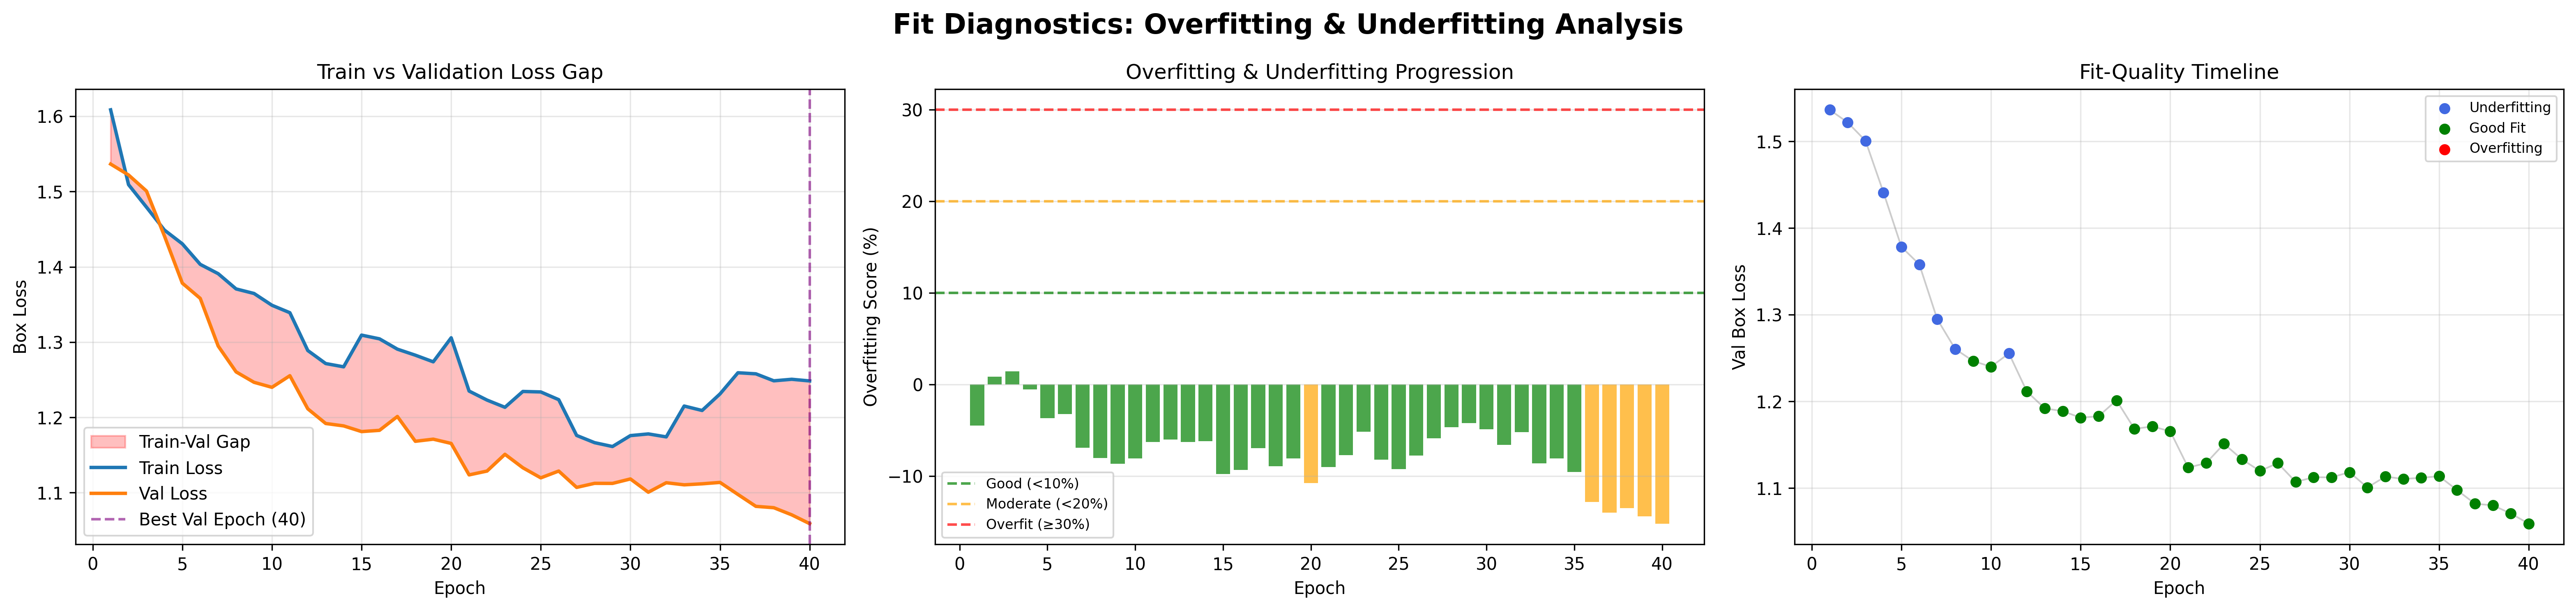
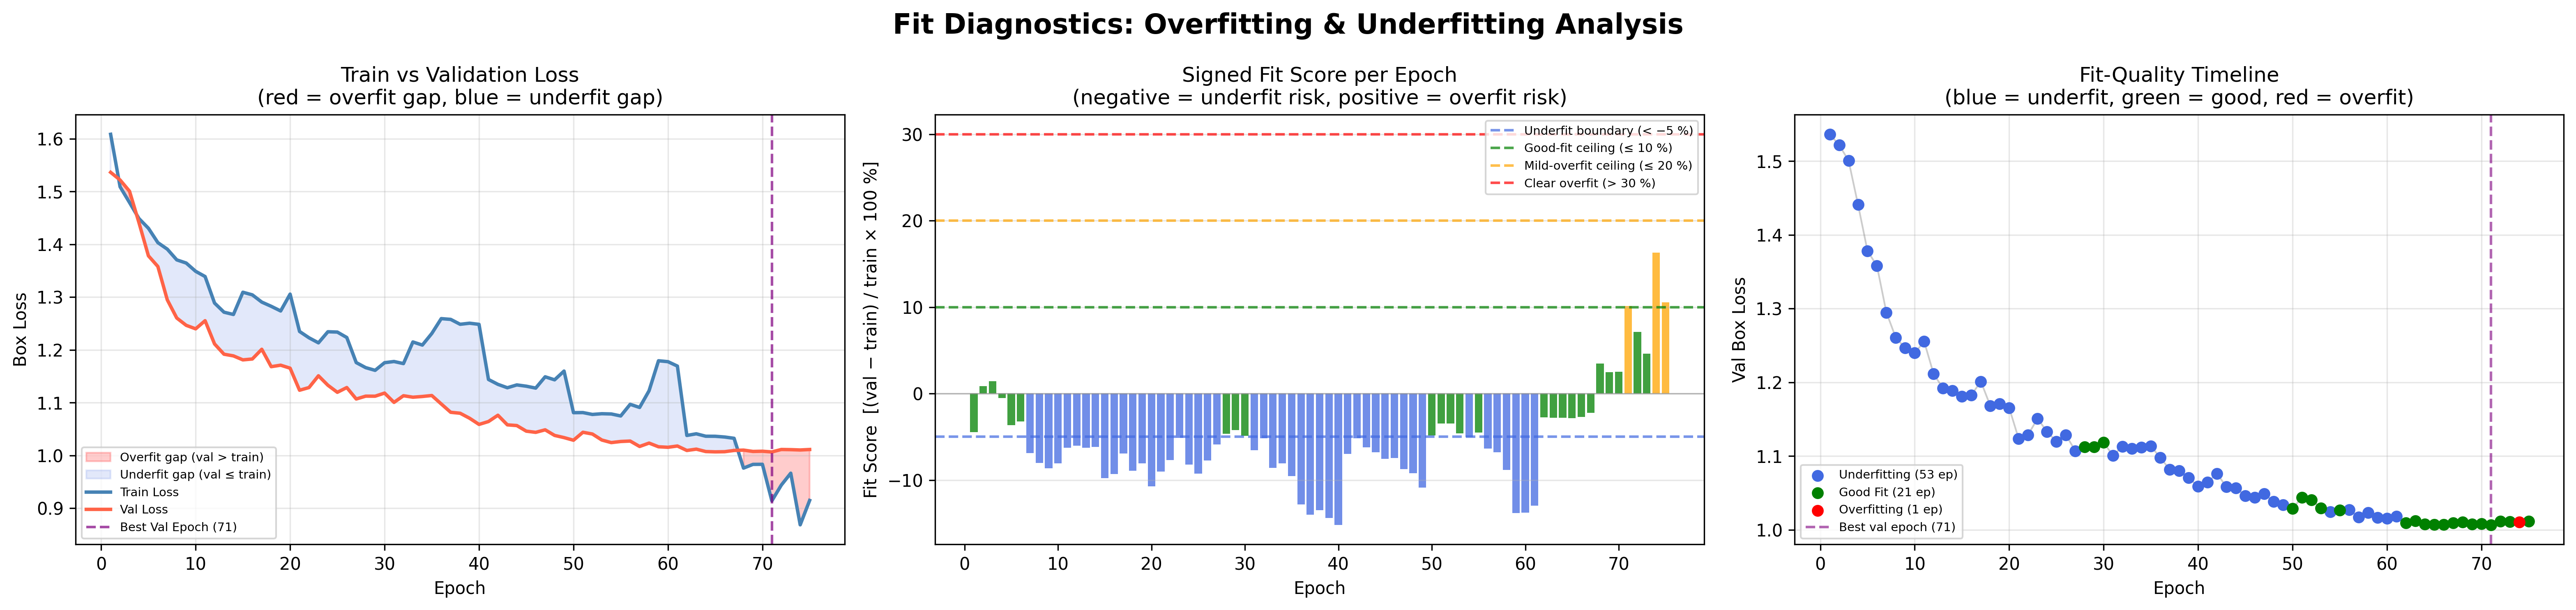
fifteenth chechpoint (before adding images to the dataset)

diff --git a/FE/src/App.jsx b/FE/src/App.jsx
@@ -475,12 +475,18 @@ export default function App() {
               <Github size={14} /> sPappalard
             </a>
           </p>
+          <p className="flex items-center gap-2">
+            Adapted by 
+            <a href="https://github.com/DiegoGMD" target="_blank" rel="noopener noreferrer" className="text-slate-300 hover:text-orange-400 flex items-center gap-1 transition-colors font-medium">
+              <Github size={14} /> DiegoGMD
+            </a>
+          </p>
           <div className="flex items-center gap-4">
             <a href="https://universe.roboflow.com/basketball-6vyfz/basketball-detection-srfkd" target="_blank" rel="noopener noreferrer" className="flex items-center gap-2 hover:text-white transition-colors">
               <Database size={14} /> Roboflow Dataset
             </a>
             <span className="text-slate-700">|</span>
-            <span>v1.0.1</span>
+            <span>v1.0.1?</span>
           </div>
         </div>
       </footer>

diff --git a/BE/export_yolo.py b/BE/export_yolo.py
@@ -1,0 +1,133 @@
+"""
+export_yolo.py
+
+Export a YOLO model (YOLO26 / YOLO11 compatible) into selected formats.
+
+Example:
+    python export_yolo.py \
+        --weights runs/train/exp/weights/best.pt \
+        --formats onnx tfjs tflite \
+        --imgsz 640
+"""
+
+import argparse
+from pathlib import Path
+import subprocess
+
+# Supported formats from Ultralytics export
+SUPPORTED_FORMATS = {
+    "onnx",
+    "openvino",
+    "engine",        # TensorRT
+    "coreml",
+    "saved_model",
+    "pb",
+    "tflite",
+    "tfjs"           # handled separately
+}
+
+
+def parse_args():
+    parser = argparse.ArgumentParser(description="Export YOLO model to selected formats")
+
+    parser.add_argument("--weights", type=str, required=True, help="Path to .pt model")
+    parser.add_argument("--imgsz", type=int, default=640, help="Image size")
+    parser.add_argument("--batch", type=int, default=1, help="Batch size")
+    parser.add_argument("--device", type=str, default="cpu", help="cpu or cuda")
+    parser.add_argument("--output", type=str, default="exports", help="Output directory")
+
+    parser.add_argument(
+        "--formats",
+        nargs="+",
+        required=True,
+        help=f"Formats to export: {', '.join(SUPPORTED_FORMATS)}"
+    )
+
+    return parser.parse_args()
+
+
+def validate_formats(formats):
+    formats = set(f.lower() for f in formats)
+
+    invalid = formats - SUPPORTED_FORMATS
+    if invalid:
+        raise ValueError(f"Unsupported formats: {invalid}")
+
+    # TFJS requires saved_model
+    if "tfjs" in formats:
+        formats.add("saved_model")
+
+    return formats
+
+
+def export_formats(model, args, formats):
+    """
+    Export selected formats using Ultralytics
+    """
+    for fmt in formats:
+        if fmt == "tfjs":
+            continue  # handled later
+
+        try:
+            print(f"\n🚀 Exporting to {fmt}...")
+            model.export(
+                format=fmt,
+                imgsz=args.imgsz,
+                batch=args.batch,
+                device=args.device,
+                project=args.output,
+                name=fmt
+            )
+        except Exception as e:
+            print(f"❌ Failed to export {fmt}: {e}")
+
+
+def export_tfjs(output_dir):
+    """
+    Convert SavedModel → TensorFlow.js
+    """
+    saved_model_dir = Path(output_dir) / "saved_model"
+    output_path = Path(output_dir) / "tfjs"
+
+    if not saved_model_dir.exists():
+        print("❌ SavedModel not found, cannot export TFJS.")
+        return
+
+    print("\n🌐 Converting to TensorFlow.js (tfjs)...")
+
+    cmd = [
+        "tensorflowjs_converter",
+        "--input_format=tf_saved_model",
+        "--output_format=tfjs_graph_model",
+        "--signature_name=serving_default",
+        "--saved_model_tags=serve",
+        str(saved_model_dir),
+        str(output_path)
+    ]
+
+    try:
+        subprocess.run(cmd, check=True)
+        print(f"✅ TFJS model saved to: {output_path}")
+    except subprocess.CalledProcessError as e:
+        print(f"❌ TFJS conversion failed: {e}")
+
+
+def main():
+    args = parse_args()
+    formats = validate_formats(args.formats)
+
+    from ultralytics import YOLO
+
+    print(f"📦 Loading model: {args.weights}")
+    model = YOLO(args.weights)
+
+    # Step 1: Export selected formats (except tfjs)
+    export_formats(model, args, formats)
+
+    # Step 2: TFJS conversion if requested
+    if "tfjs" in formats:
+        export_tfjs(args.output)
+
+
+if __name__ == "__main__":
+    main()

diff --git a/BE/app.py b/BE/app.py
@@ -21,7 +21,10 @@ class Config:
     UPLOAD_DIR = Path(__file__).parent / "uploads"
     PROCESSED_DIR = Path(__file__).parent / "processed"
     MODEL_PATH = Path(__file__).parent / "basketball_training" / "yolo26s_5classes" / "weights" / "best.pt"
-    TRACKER_PATH = Path(__file__).parent / "tracker" / "bytetrack.yaml"
+
+    # TRACKER_PATH = Path(__file__).parent / "tracker" / "bytetrack.yaml" # Faster but in theory better with objects going in and out camera
+    TRACKER_PATH = Path(__file__).parent / "tracker" / "botsort.yaml" # Keeps better the classes if always visible
+
     MINIMAP_PATH = Path(__file__).parent / "tracker" / "minimap.png"
     HOMOGRAPHY_PATH = Path(__file__).parent / "tracker" / "homography.npy"
 
@@ -38,10 +41,10 @@ class Config:
     CLEANUP_INTERVAL = 60       # Run cleanup check every 60 seconds
 
     # Physics & Rules (Time in seconds)
-    SHOT_COOLDOWN = 1.5     # if the model recognizes a shot,  it waits 1.5 seconds before counting another.
+    SHOT_COOLDOWN = 0.5     # if the model recognizes a shot,  it waits 0.5 seconds before counting another.
                             # Prevente a single shot from being counted 10 times in 10 consecutive frames 
-    BASKET_COOLDOWN = 2.0   # the same for the basket recognition 
-    ANIMATION_DURATION = 1.5
+    BASKET_COOLDOWN = 2.0   # the same for the basket recognition
+    ANIMATION_DURATION = 1
 
     # Confidence Thresholds
     THRESHOLDS = {
@@ -528,11 +531,8 @@ class MinimapRenderer:
         court_w_px  = court_right - court_left
         court_h_px  = court_bot   - court_top
 
-        # calibrate_new.py stores x mirrored relative to the minimap drawing.
-        mirrored_x_cm = r.COURT_W - x_cm
-
         # Map court cm → minimap pixel, clamp to court area
-        t = mirrored_x_cm / r.COURT_W               # 0.0 (left) … 1.0 (right)
+        t = x_cm / r.COURT_W                         # 0.0 (left) … 1.0 (right)
         px = court_left + t * court_w_px
 
         # y_cm=0 (baseline) → top of minimap; y_cm=COURT_H → bottom

diff --git a/README.md b/README.md
@@ -432,6 +432,11 @@ This project integrates **Ultralytics YOLO**, which is licensed under AGPL-3.0. 
 Copyright (c) 2025 sPappalard.
 
 ---
+<!--
 
+My notes
+- Export model:
+https://docs.ultralytics.com/es/modes/export/#what-do-the-output-tensors-represent-in-exported-yolo-models
 
-
+Epoch 75 last before dataset update
+-->